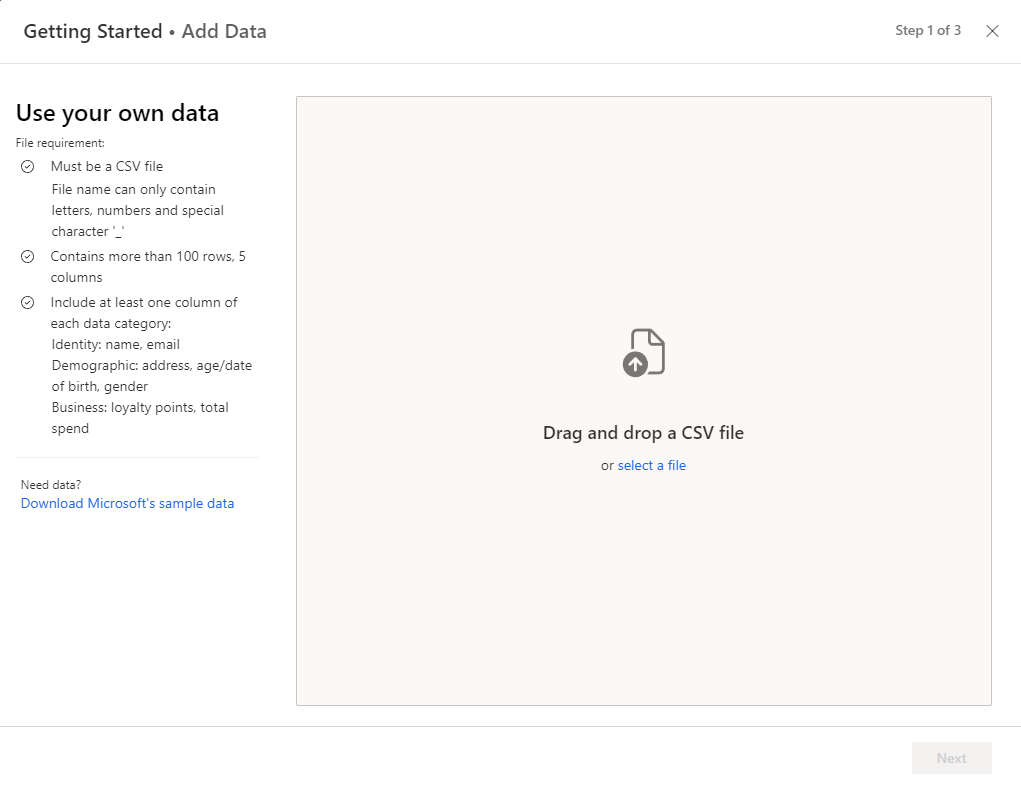
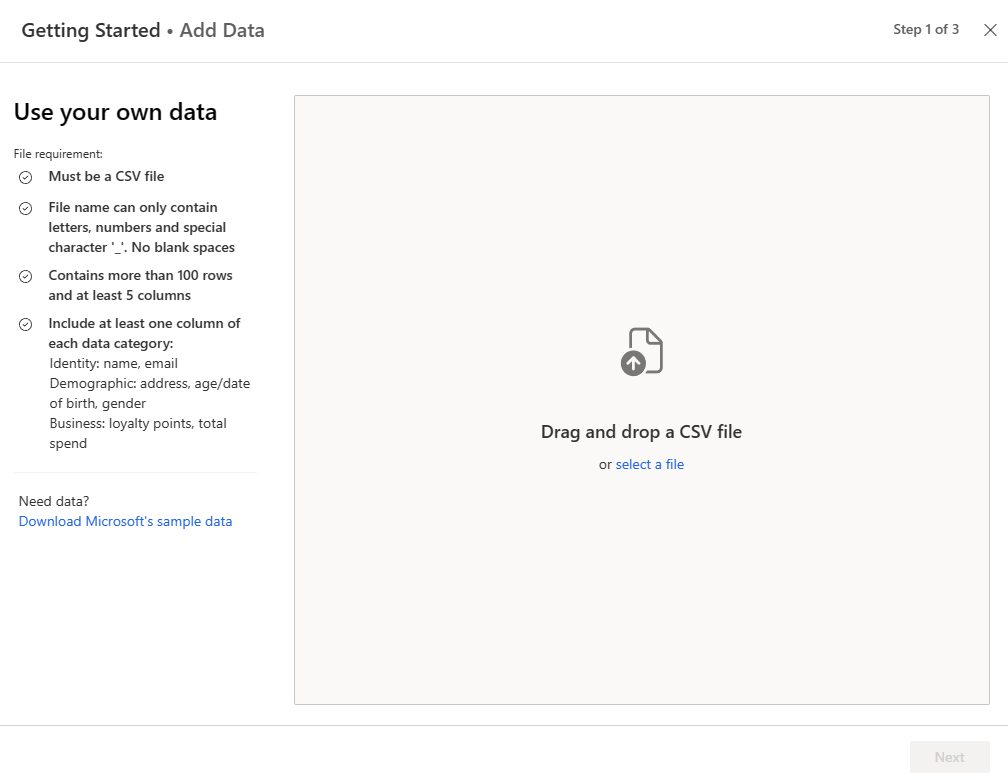
New screenshots, update TOC

diff --git a/ci-docs/get-started.md b/ci-docs/get-started.md
@@ -4,10 +4,9 @@ description: An overview of Customer Insights help resources to get started quic
 ms.reviewer: mhart
 ms.author: mhart
 author: m-hartmann
-ms.date: 12/6/2022
-ms.subservice: audience-insights 
-ms.topic: conceptual
-ms.ms.custom: intro-internal
+ms.date: 02/07/2023
+ms.topic: how-to
+ms.custom: bap-template
 searchScope: 
   - ci-home
   - customerInsights
@@ -19,22 +18,23 @@ Customer Insights can help you build a deeper understanding of your customers. C
 
 ## Step 1: Create an environment
 
-First, create an environment to work in. If your organization already purchased a license, see [Create an environment](create-environment.md). To start a trial for Customer Insights, see [Set up a trial environment](trial-signup.md).
+1. After signing up for a trial or purchasing a license, [create an environment](create-environment.md).
 
-## Step 2: Explore Customer Insights
+   :::image type="content" source="media/get-started.png" alt-text="Screenshot of Getting started for getting insights in minutes.":::
 
-The first time you sign in to Customer Insights, configure settings and explore the product.
+1. Once the environment has been created, you can:
 
-1. [Sign in to Customer Insights](https://home.ci.ai.dynamics.com) using your Microsoft Azure Active Directory (AAD) user account.
+   - [Upload a single CSV file, unify the data, and generate automatic insights](data-sources-single.md).
+   - [Explore Customer Insights](home.md). Select **Not now** and change the environment to see demo data.
+   - [Ingest data from multiple sources](#step-2-ingest-unify-and-set-up-relationships-for-your-data). Select **Not now** and continue to Step 2.
 
-1. Change the environment to see demo data and [explore Customer Insights](home.md).
-
-> [!NOTE]
-> To upload a single CSV file, unify the data, and generate automatic insights, go to [Experience Customer Insights in minutes](data-sources-single.md). Otherwise, continue with the following steps.
-
-## Step 3: Ingest, unify, and set up relationships for your data
+## Step 2: Ingest, unify, and set up relationships for your data
 
 Unified profiles are the foundation to get insights and take action on the data. Bring in data from various sources and run the data unification process to combine unified profiles. Specify relationships between the ingested entities and use enrichment features to add information to the profiles.
+
+1. From the **Home** page, select **Step-by-step guide**.
+
+   :::image type="content" source="media/home-single-file.png" alt-text="Screenshot of Home page with Step-by-step highlighted.":::
 
 1. Ingest data by creating data sources from multiple options. Choose between [Azure Data Lake Storage, including Common Data Model](connect-common-data-model.md), [Azure Synapse Analytics](connect-synapse.md), [Microsoft Dataverse](connect-dataverse-managed-lake.md), or  [Power Query connectors](connect-power-query.md).
 
@@ -42,7 +42,7 @@ Unified profiles are the foundation to get insights and take action on the data.
 
 1. Get familiar with the [entities the system creates](entities.md) and create [relationships between the ingested entities](relationships.md).
 
-## Step 4: Enhance unified profiles with predictions, activities, and measures
+## Step 3: Enhance unified profiles with predictions, activities, and measures
 
 With unified profiles set up, enhance your data and further increase the information they provide.
 
@@ -54,7 +54,7 @@ With unified profiles set up, enhance your data and further increase the informa
 
 1. [Build measures](measures.md) to gauge your business goals and KPIs.
 
-## Step 5: Create segments and activate data through various export options
+## Step 4: Create segments and activate data through various export options
 
 Now that your data is complete and contains a wide range of information about your customers, look for ways to take action on that data.
 

diff --git a/ci-docs/data-sources-single.md b/ci-docs/data-sources-single.md
@@ -1,14 +1,12 @@
 ---
 title: "Experience Customer Insights in minutes"
 description: "Learn how to ingest data from a single file or from sample data"
-ms.date: 12/6/2022
-
-ms.subservice: audience-insights
+ms.date: 02/07/2023
 ms.topic: overview
 author: wmelewong
 ms.author: wameng
 ms.reviewer: v-wendysmith
-manager: shellyha
+ms.custom: bap-template
 searchScope: 
   - ci-data-sources
   - ci-create-data-source
@@ -30,13 +28,9 @@ Dynamics 365 Customer Insights provides ingestion of a single data source to get
 
 ## Ingest a single data source
 
-1. On the **Home** page, select **Get insights in mins**.
+1. From the **Home** page, select **Add data** on the **Get insights in mins** card. From the Getting Started page, select **Add data**.
 
-   :::image type="content" source="media/home-single-file.png" alt-text="Screenshot of Home page with Get insights in mins selected.":::
-
-1. Select **Add data**. The Getting Started page displays.
-
-   :::image type="content" source="media/get-started.png" alt-text="Screenshot of Getting started for getting insights in 5 minutes.":::
+   :::image type="content" source="media/get-started.png" alt-text="Screenshot of Getting started for getting insights in minutes.":::
 
 1. Select **Get started**.
 
@@ -44,7 +38,9 @@ Dynamics 365 Customer Insights provides ingestion of a single data source to get
 
 1. To use your own data, browse or drag and drop your file. To use sample data, select **Download Microsoft’s sample data** and load the sample file. If the file meets the prerequisites, **Next** displays.
 
-1. Click **Next**. Customer Insights checks the data quality.
+1. Select **Next**. Customer Insights identifies a unique key for your data source called the primary key.
+
+1. Select **Yes** to verify the primary key or choose another field as the primary key for your data source. Select **Next**. Customer Insights checks the data quality.
 
    > [!TIP]
    > If an error occurs during data processing, Customer Insights explains the issue in a message and provides an action to take. For example, if required attributes needed to generate insights are not identified, click [**Map data**](#map-required-data).
@@ -52,10 +48,11 @@ Dynamics 365 Customer Insights provides ingestion of a single data source to get
    After the data quality checks, Customer Insights removes duplicate records, creates customer profiles, and generates insights such as segments and measures.
 
 1. Upon a successful completion, the **Results** page displays results from your file:
-   - Number of mapped columns
-   - Number of missing rows
+   - Unique number of customers
    - Number of duplicate rows
    - Suggested segments and measures
+
+   :::image type="content" source="media/get-started-results.png" alt-text="Screenshot of Getting Started - Results.":::
 
 1. Select **Done** to go to the **Home** page.
 
@@ -66,5 +63,11 @@ Dynamics 365 Customer Insights provides ingestion of a single data source to get
 1. Review all mapped fields under the **All mapped** tab and make changes if necessary.
 
 1. Select **Next**.
+
+## Next steps
+
+- [Review generated segments or create new ones](segments.md)
+- [Review generated measures or create new ones](measures.md)
+- [Export your data to various business apps and tools](export-destinations.md)
 
 [!INCLUDE [footer-include](includes/footer-banner.md)]

diff --git a/ci-docs/create-environment.md b/ci-docs/create-environment.md
@@ -1,12 +1,12 @@
 ---
 title: "Create a new environment"
 description: Steps to create environments in Dynamics 365 Customer Insights.
-ms.date: 08/15/2022
+ms.date: 02/07/2023
 ms.reviewer: mhart
 ms.topic: how-to
 author: mukeshpo
 ms.author: mukeshpo
-ms.custom: intro-internal
+ms.custom: bap-template
 searchScope: 
   - ci-home
   - customerInsights
@@ -79,8 +79,9 @@ To change some of the settings later, see [Manage environments](manage-environme
 
 Review the following articles to help you get started with configuring Customer Insights:
 
+- [Get started with Customer Insights in minutes with a single CSV file](data-sources-single.md).
 - [Add more users and assign permissions](permissions.md).
-- [Ingest your data sources](data-sources.md) and run them through the [data unification process](data-unification.md) to get [unified customer profiles](customer-profiles.md).
+- [Ingest several of your data sources](data-sources.md) and run them through the [data unification process](data-unification.md) to get [unified customer profiles](customer-profiles.md).
 - [Enrich the unified customer profiles](enrichment-hub.md) or [run predictive models](predictions-overview.md).
 - [Create segments](segments.md) to group customers and [measures](measures.md) to review KPIs.
 - [Set up connections](connections.md) and [exports](export-destinations.md) to process subsets of your data in other applications.

diff --git a/ci-docs/data-sources.md b/ci-docs/data-sources.md
@@ -1,7 +1,7 @@
 ---
 title: "Data sources overview"
 description: "Learn how to import or ingest data from various sources."
-ms.date: 12/6/2022
+ms.date: 02/07/2023
 
 ms.topic: overview
 author: mukeshpo
